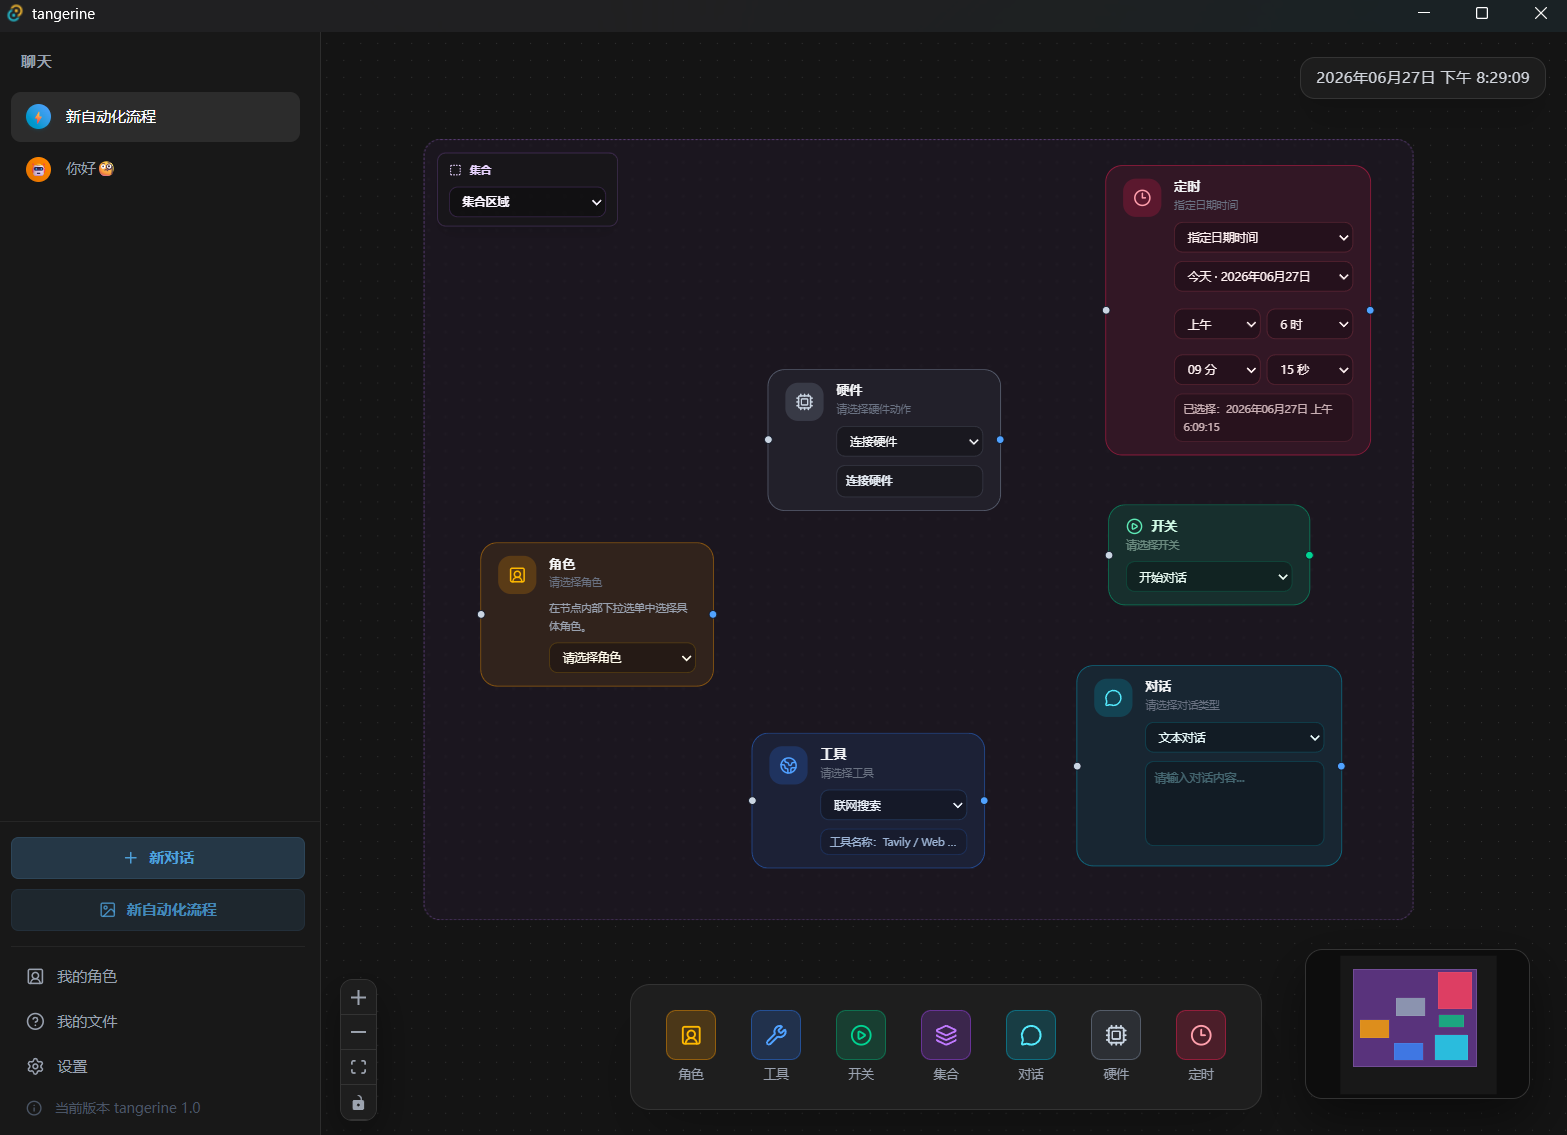
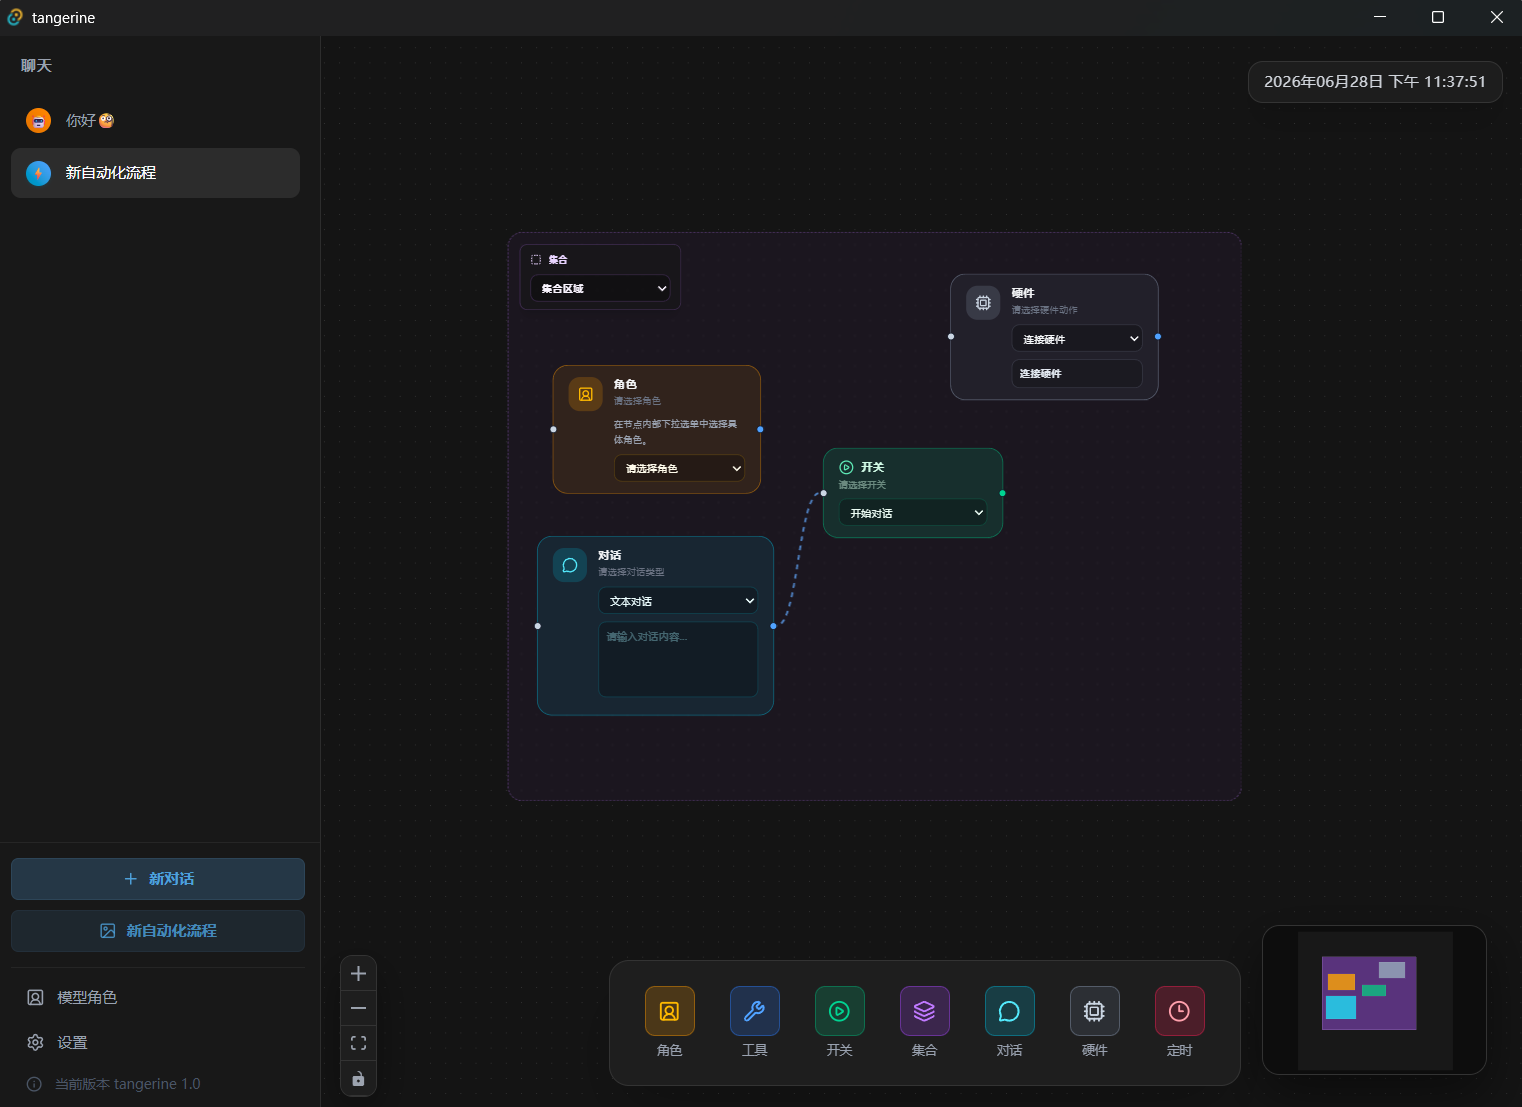
feat: 提交新内容

diff --git a/src/components/ChatWorkspace.tsx b/src/components/ChatWorkspace.tsx
@@ -80,24 +80,6 @@ export default function ChatWorkspace({ state, actions, refs }: ChatWorkspacePro
         )}
 
         <div className="max-w-3xl mx-auto space-y-6">
-
-          {activeRole && activeSession.messages.length > 0 && (
-            <div className="w-full rounded-xl border border-amber-500/20 bg-amber-500/[0.05] px-4 py-3 shadow-[0_0_24px_rgba(245,158,11,0.035)] backdrop-blur-sm">
-              <div className="flex items-center justify-between gap-3 mb-1.5">
-                <div className="flex items-center gap-2 text-amber-400">
-                  <Sparkles size={14} />
-                  <span className="text-[11px] font-bold tracking-wide">
-                    当前会话角色：{activeRole.name}
-                  </span>
-                </div>
-              </div>
-
-              <div className="text-[11px] text-gray-400 leading-relaxed whitespace-pre-wrap italic select-text line-clamp-2">
-                “{activeRole.systemPrompt}”
-              </div>
-            </div>
-          )}
-
           {activeSession.messages.length === 0 ? (
             <div className="min-h-[calc(100vh-280px)] flex flex-col items-center justify-center text-center opacity-95">
               <div className="w-14 h-14 rounded-2xl bg-[#2b2b2b] flex items-center justify-center mb-4 border border-[#3e3e3e] shadow-inner">
@@ -109,9 +91,9 @@ export default function ChatWorkspace({ state, actions, refs }: ChatWorkspacePro
               </h2>
 
               <p className="text-xs text-gray-500 max-w-md leading-relaxed">
-                你可以直接输入消息，也可以通过输入框左下区域选择附件、联网模式与角色设定。
+                你可以直接输入消息，也可以通过输入框左下区域选择附件、联网搜索与角色设定。
                 {roles.length > 0
-                  ? " 当前支持在空白会话中为该对话绑定角色。"
+                  ? " 角色设定将为对话注入专属提示词（注：角色绑定的专属模型仅在自动化画布中生效）。"
                   : " 也可以先到侧边栏“我的角色”创建专属角色。"}
               </p>
 
@@ -119,20 +101,27 @@ export default function ChatWorkspace({ state, actions, refs }: ChatWorkspacePro
                 <ImageIcon size={14} className="text-sky-400" />
                 也支持将文件直接拖拽到聊天区域
               </div>
-
-              {activeRole && (
-                <div className="mt-5 rounded-xl border border-amber-500/20 bg-amber-500/[0.06] px-4 py-3 max-w-lg w-full">
-                  <div className="text-[11px] text-amber-300 font-semibold mb-1">
-                    已预选角色：{activeRole.name}
-                  </div>
-                  <div className="text-[11px] text-gray-400 leading-relaxed line-clamp-3">
-                    {activeRole.systemPrompt}
-                  </div>
-                </div>
-              )}
             </div>
           ) : (
             <>
+              {/* 当用户发送第一条消息后，在消息流最顶部（第0条系统消息位置）展示角色设定卡片 */}
+              {activeRole && (
+                <div className="w-full rounded-xl border border-amber-500/20 bg-amber-500/[0.05] px-4 py-3 shadow-[0_0_24px_rgba(245,158,11,0.035)] backdrop-blur-sm animate-in fade-in slide-in-from-bottom-2 duration-300">
+                  <div className="flex items-center justify-between gap-3 mb-1.5">
+                    <div className="flex items-center gap-2 text-amber-400">
+                      <Sparkles size={14} />
+                      <span className="text-[11px] font-bold tracking-wide">
+                        当前会话角色：{activeRole.name}
+                      </span>
+                    </div>
+                  </div>
+
+                  <div className="text-[11px] text-gray-400 leading-relaxed whitespace-pre-wrap italic select-text line-clamp-2">
+                    “{activeRole.systemPrompt}”
+                  </div>
+                </div>
+              )}
+
               {activeSession.messages.map((msg: any) => (
                 <MessageItem
                   key={msg.id}

diff --git a/src/components/ChatInput.tsx b/src/components/ChatInput.tsx
@@ -276,9 +276,9 @@ export default function ChatInput({
                 className={`text-[10px] font-semibold px-2.5 py-1.5 rounded-lg border flex items-center gap-1.5 transition-colors ${
                   roles.length === 0
                     ? "bg-[#232323] border-[#353535] text-gray-600 cursor-not-allowed"
-                    : canSelectRole
-                    ? "bg-[#202020] border-[#353535] text-gray-300 hover:text-white"
-                    : "bg-amber-500/[0.08] border-amber-500/20 text-amber-300"
+                    : activeRole
+                    ? "bg-amber-500/[0.08] border-amber-500/20 text-amber-300 hover:bg-amber-500/[0.15]"
+                    : "bg-[#202020] border-[#353535] text-gray-300 hover:text-white"
                 }`}
               >
                 <UserSquare2 size={12} />
@@ -338,8 +338,8 @@ export default function ChatInput({
                       </div>
                       <span className="text-[9px] text-gray-500 font-normal mt-0.5 line-clamp-2">
                         {role.provider && role.model
-                          ? `${role.provider} / ${role.model}`
-                          : "未绑定模型，发送时跟随当前模型选择"}
+                          ? `画布绑定: ${role.provider} / ${role.model}`
+                          : "未绑定画布专属模型"}
                       </span>
                     </button>
                   ))}
@@ -414,27 +414,8 @@ export default function ChatInput({
             </button>
           </div>
         </div>
-
-        {activeRole && (
-          <div className="mt-2 px-2 pt-2 border-t border-[#343434]">
-            <div className="flex items-center justify-between gap-3 rounded-lg bg-amber-500/[0.06] border border-amber-500/15 px-3 py-2">
-              <div className="min-w-0">
-                <div className="flex items-center gap-2 text-amber-300">
-                  <UserSquare2 size={12} />
-                  <span className="text-[10px] font-semibold truncate">当前角色：{activeRole.name}</span>
-                </div>
-                <div className="text-[10px] text-gray-500 mt-0.5 truncate">
-                  {activeRole.provider && activeRole.model
-                    ? `绑定模型：${activeRole.provider} / ${activeRole.model}`
-                    : "未绑定专属模型，将沿用当前模型选择"}
-                </div>
-              </div>
-              {!canSelectRole && (
-                <span className="text-[9px] text-gray-500 shrink-0">已锁定</span>
-              )}
-            </div>
-          </div>
-        )}
+        
+        {/* 【已移除】原本在此处的 activeRole 底部金黄色提示框 */}
       </div>
     </div>
   );

diff --git a/src/hooks/useChatManager.ts b/src/hooks/useChatManager.ts
@@ -277,7 +277,13 @@ export function useChatManager() {
   const getRoleResolvedModelInfo = (session?: ChatSession): ResolvedModelConfig => {
     const fallbackResolved = resolveModelConfig(selectedModel);
 
-    if (!session?.roleId) {
+    // 【核心修改】：如果是普通聊天（type 为 "chat" 或未定义），则完全使用用户在聊天框选择的模型，忽略角色绑定的模型
+    if (!session || session.type !== "automation") {
+      return fallbackResolved;
+    }
+
+    // 仅自动化画布流程（type 为 "automation"）才会读取并使用角色绑定的专属模型
+    if (!session.roleId) {
       return fallbackResolved;
     }
 
@@ -950,7 +956,7 @@ export function useChatManager() {
               }
               return m;
             });
-            const cleanMsgs = updatedMessages.filter(m => m.id !== streamAiMessageId);
+                        const cleanMsgs = updatedMessages.filter(m => m.id !== streamAiMessageId);
             return { ...session, messages: [...cleanMsgs, systemError] };
           }
 

diff --git a/src-tauri/py_sidecar/main.py b/src-tauri/py_sidecar/main.py
@@ -1,3 +1,4 @@
+# py_sidecar/main.py
 # -*- coding: utf-8 -*-
 import os
 import sys
@@ -79,8 +80,24 @@ def process_file_paths(file_paths: List[str]) -> tuple:
       if ext in ['.jpg', '.jpeg', '.png', '.gif', '.webp', '.bmp', '.mp3', '.wav', '.ogg', '.m4a']:
           try:
               mime_type, _ = mimetypes.guess_type(path)
+              # 【修复点】：优化 MIME 类型回退逻辑，确保所有支持的图片/音频格式都能正确识别
               if not mime_type:
-                  mime_type = "image/png" if ext in ['.png', '.jpg', '.jpeg'] else "audio/mp3"
+                  if ext in ['.jpg', '.jpeg']:
+                      mime_type = "image/jpeg"
+                  elif ext == '.png':
+                      mime_type = "image/png"
+                  elif ext == '.gif':
+                      mime_type = "image/gif"
+                  elif ext == '.webp':
+                      mime_type = "image/webp"
+                  elif ext == '.bmp':
+                      mime_type = "image/bmp"
+                  elif ext == '.mp3':
+                      mime_type = "audio/mpeg"
+                  elif ext in ['.wav', '.ogg', '.m4a']:
+                      mime_type = f"audio/{ext.replace('.', '')}"
+                  else:
+                      mime_type = "application/octet-stream"
 
               with open(path, "rb") as f:
                   file_b64 = base64.b64encode(f.read()).decode("utf-8")
@@ -238,7 +255,7 @@ def get_api_key_from_env(env_key_name: Optional[str]) -> Optional[str]:
 def sanitize_messages_for_text_only(messages: list) -> list:
     """
     某些 OpenAI 兼容后端 / 本地 Ollama 不一定支持 input_audio / image_url 混合结构，
-    因此在必要时将内容折叠为纯文本。
+    因此在必要时将内容折叠为纯文本。（注：Ollama 视觉模型已支持多模态，不再强制使用此函数）
     """
     formatted_messages = []
     for msg in messages:
@@ -265,11 +282,6 @@ async def call_llm_api_stream(
 ):
     """
     支持流式传输的通用 LLM 接口，逐步 yield SSE chunk 给前端
-
-    路由策略：
-    1. Gemini：专用 SDK；
-    2. Ollama：本地 OpenAI 兼容通路；
-    3. 其余云端第三方：统一走 OpenAI 兼容通路（支持 CherryIn / OpenRouter / 各类网关）。
     """
     await send_debug_log("LLM_CALL_PREPARED", {
         "provider": provider,
@@ -368,11 +380,12 @@ async def call_llm_api_stream(
             ollama_base = resolve_openai_like_base_url(base_url) or f"{OLLAMA_BASE_URL}"
             client = OpenAI(api_key="ollama", base_url=f"{ollama_base}/v1")
 
-            formatted_messages = sanitize_messages_for_text_only(messages)
-
+            # 【核心修复点】：移除 sanitize_messages_for_text_only。
+            # Ollama 的 OpenAI 兼容接口 (0.1.14+) 已完美支持标准 image_url 多模态格式。
+            # 强制降级为纯文本会导致视觉模型（如 llava, llama3.2-vision）丢失图片数据。
             response = client.chat.completions.create(
                 model=model,
-                messages=formatted_messages,
+                messages=messages, 
                 stream=True
             )
 
@@ -402,7 +415,7 @@ async def call_llm_api_stream(
                 "usage": usage_dict
             })
         except Exception as e:
-            error_data = json.dumps({"error": f"{provider or 'Ollama'} 本地连接或模型加载失败: {str(e)}。请确保本地已运行 `ollama run {model}` 启动。"})
+            error_data = json.dumps({"error": f"{provider or 'Ollama'} 本地连接或模型加载失败: {str(e)}。请确保本地已运行 `ollama run {model}` 启动，且该模型支持视觉能力。"})
             yield f"data: {error_data}\n\n"
 
     # ---- 通用 OpenAI 兼容第三方 API 流式逻辑 ----
@@ -423,15 +436,12 @@ async def call_llm_api_stream(
         try:
             client = OpenAI(api_key=api_key_val, base_url=final_base_url)
 
-            # 对通用第三方先保守走原始 messages。
-            # 若后续你发现某些网关不支持多模态结构，可再降级到 sanitize_messages_for_text_only。
             kwargs: Dict[str, Any] = {
                 "model": model,
                 "messages": messages,
                 "stream": True
             }
 
-            # 保留对 DeepSeek 旧模型的能力增强，但不再依赖 provider 名称硬编码
             if model == "deepseek-v4-pro":
                 kwargs["reasoning_effort"] = "high"
                 kwargs["extra_body"] = {"thinking": {"type": "enabled"}}
@@ -490,7 +500,6 @@ async def chat(request: ChatRequest):
     base_url = normalize_text(request.base_url)
     env_key_name = normalize_text(request.env_key_name)
 
-    # 仅作为兼容兜底，不再作为主逻辑依赖
     if not provider:
         if is_gemini_provider(provider, request.model, base_url):
             provider = "Gemini"
@@ -502,8 +511,15 @@ async def chat(request: ChatRequest):
     text_context, multimodal_contents = process_file_paths(request.file_paths)
     processed_messages = []
 
+    # 【修复点】：增强健壮性，动态查找最后一个 user 消息的索引，防止因消息顺序异常导致图片丢失
+    last_user_idx = -1
+    for i in range(len(request.messages) - 1, -1, -1):
+        if request.messages[i]["role"] == "user":
+            last_user_idx = i
+            break
+
     for i, msg in enumerate(request.messages):
-        if i == len(request.messages) - 1 and msg["role"] == "user":
+        if i == last_user_idx:
             user_text = msg["content"]
             if text_context:
                 user_text = f"{text_context}\n\n请结合以上文档/代码内容，回答用户的问题：{user_text}"

diff --git a/README.md b/README.md
@@ -1,3 +1,4 @@
 ![项目截图1](./images/1.png)
 ![项目截图2](./images/2.png)
 ![项目截图3](./images/3.png)
+![项目截图4](./images/4.png)